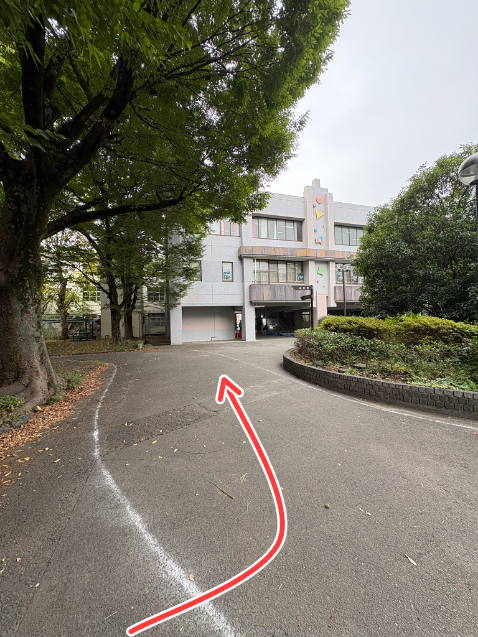
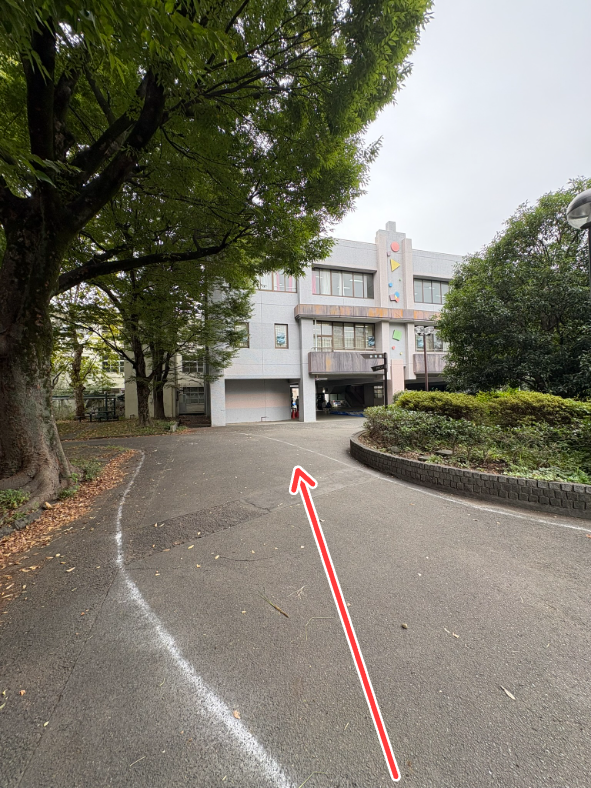
rename 123-24-26

diff --git a/lib/route-finder.ts b/lib/route-finder.ts
@@ -2358,8 +2358,8 @@ const NODE_TRIPLETS: NodeTriplet[] = [
     previous: 123,
     current: 24,
     next: 26,
-    prev_name: "まず受付を背にする",
-    curr_name: "すぐ左折",
+    prev_name: "まず入口を入る",
+    curr_name: "直進",
     next_name: "",
     image: "179_123-24-26.jpg",
   },
